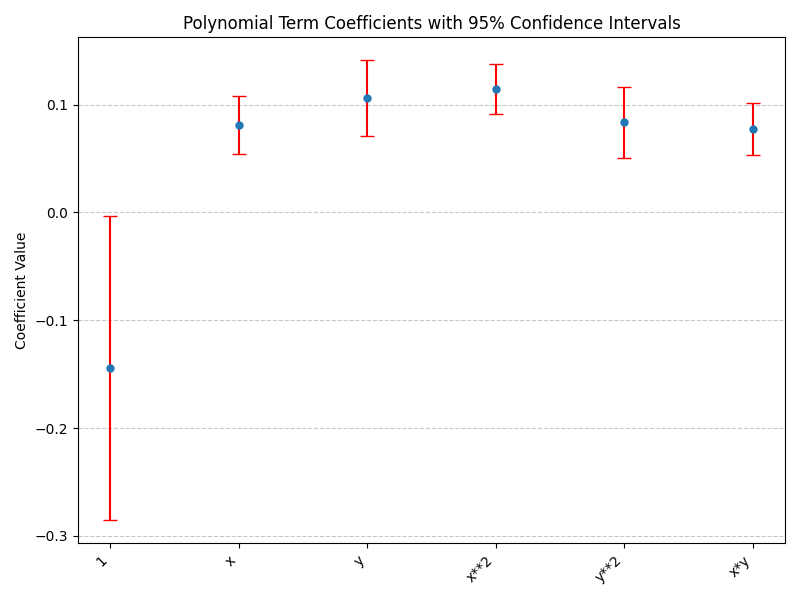
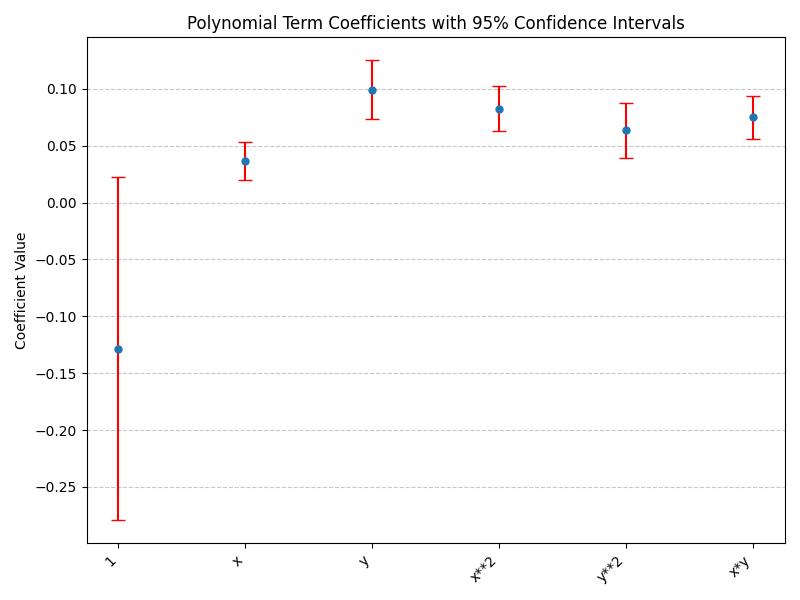
minor changes'

diff --git a/fagproject/src/project/simple_PN_intepretability.py b/fagproject/src/project/simple_PN_intepretability.py
@@ -124,6 +124,11 @@ def main():
     path = 'fagproject/data/train_q_n_4.pkl'
     X, y = torch.load(path)
 
+    random_seed = 42
+    np.random.seed(random_seed)
+    torch.manual_seed(random_seed)
+    X_train, X_val, y_train, y_val = train_test_split(X, y, test_size=0.2, random_state=random_seed)
+
     n_epochs = 1500
     learning_rate = 0.0001
     k = 30  # Number of models to train
@@ -131,11 +136,6 @@ def main():
 
     coef_list = []
     for i in range(k):
-        # Set random seed
-        random_seed = i
-        np.random.seed(random_seed)
-        torch.manual_seed(random_seed)
-        X_train, X_val, y_train, y_val = train_test_split(X, y, test_size=0.2, random_state=i)
         num_features = X_train.shape[1]
         print(f"Training model {i+1}/{k}")
         model = Polynomial_Network(layers, in_features=num_features)
